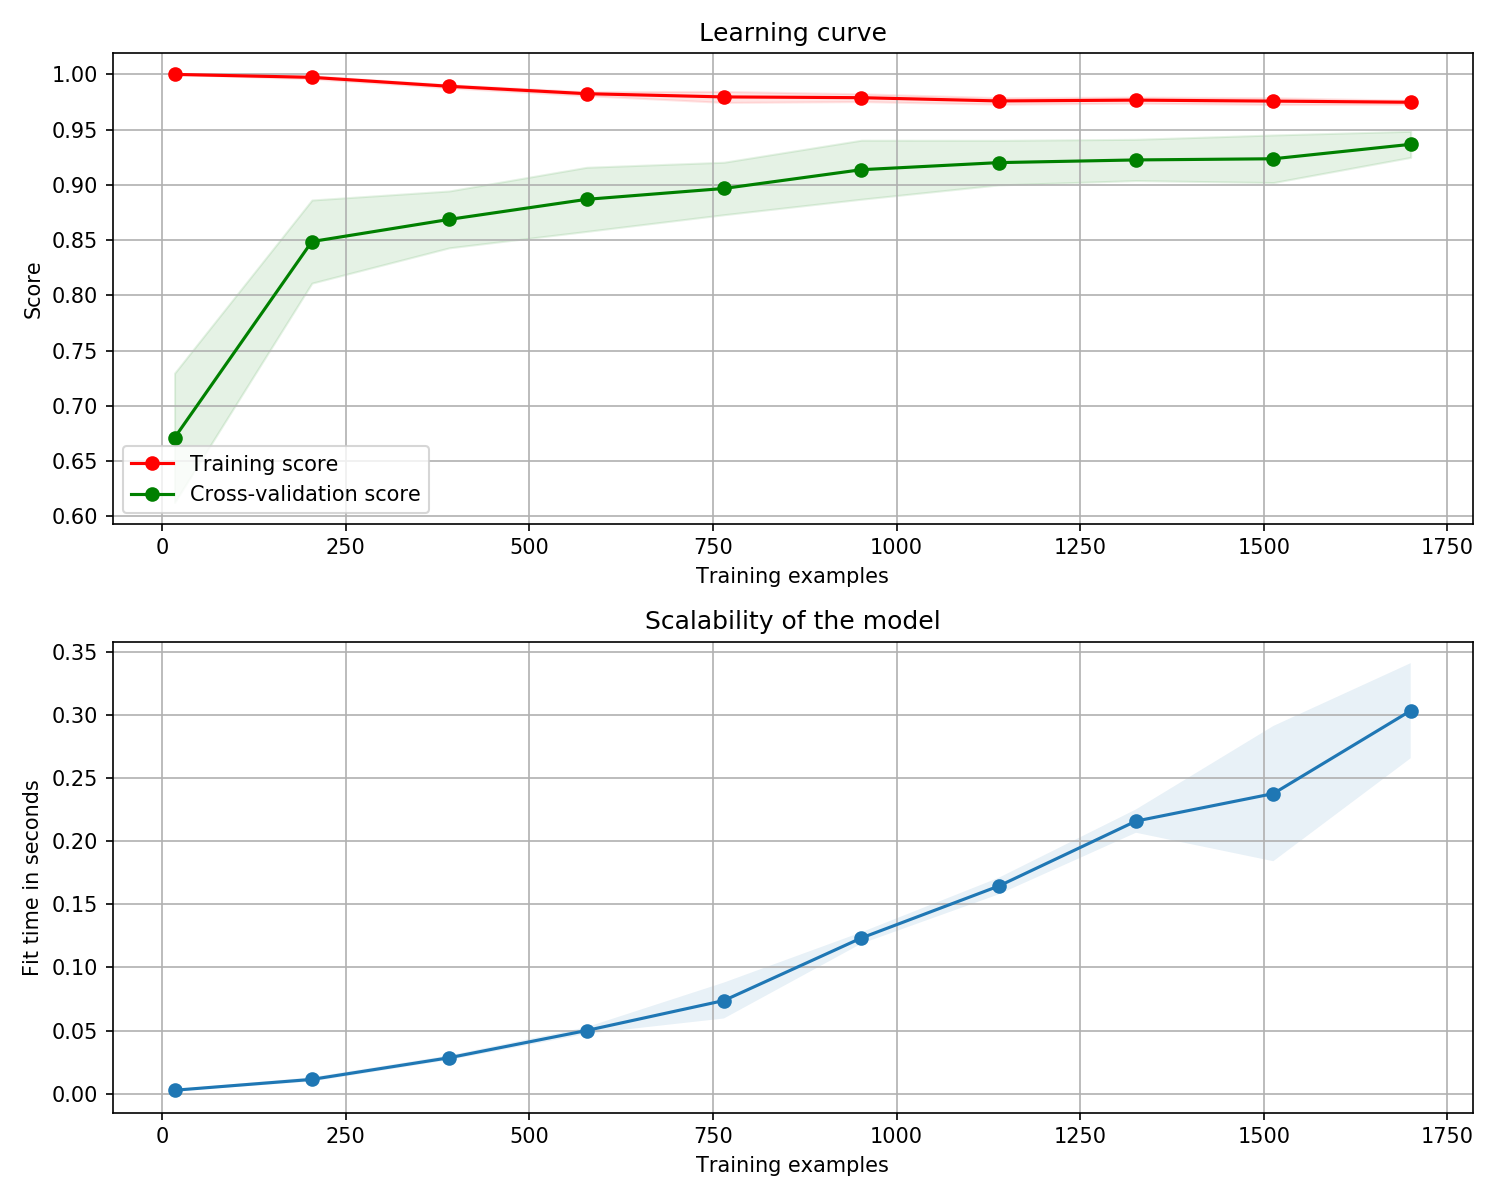
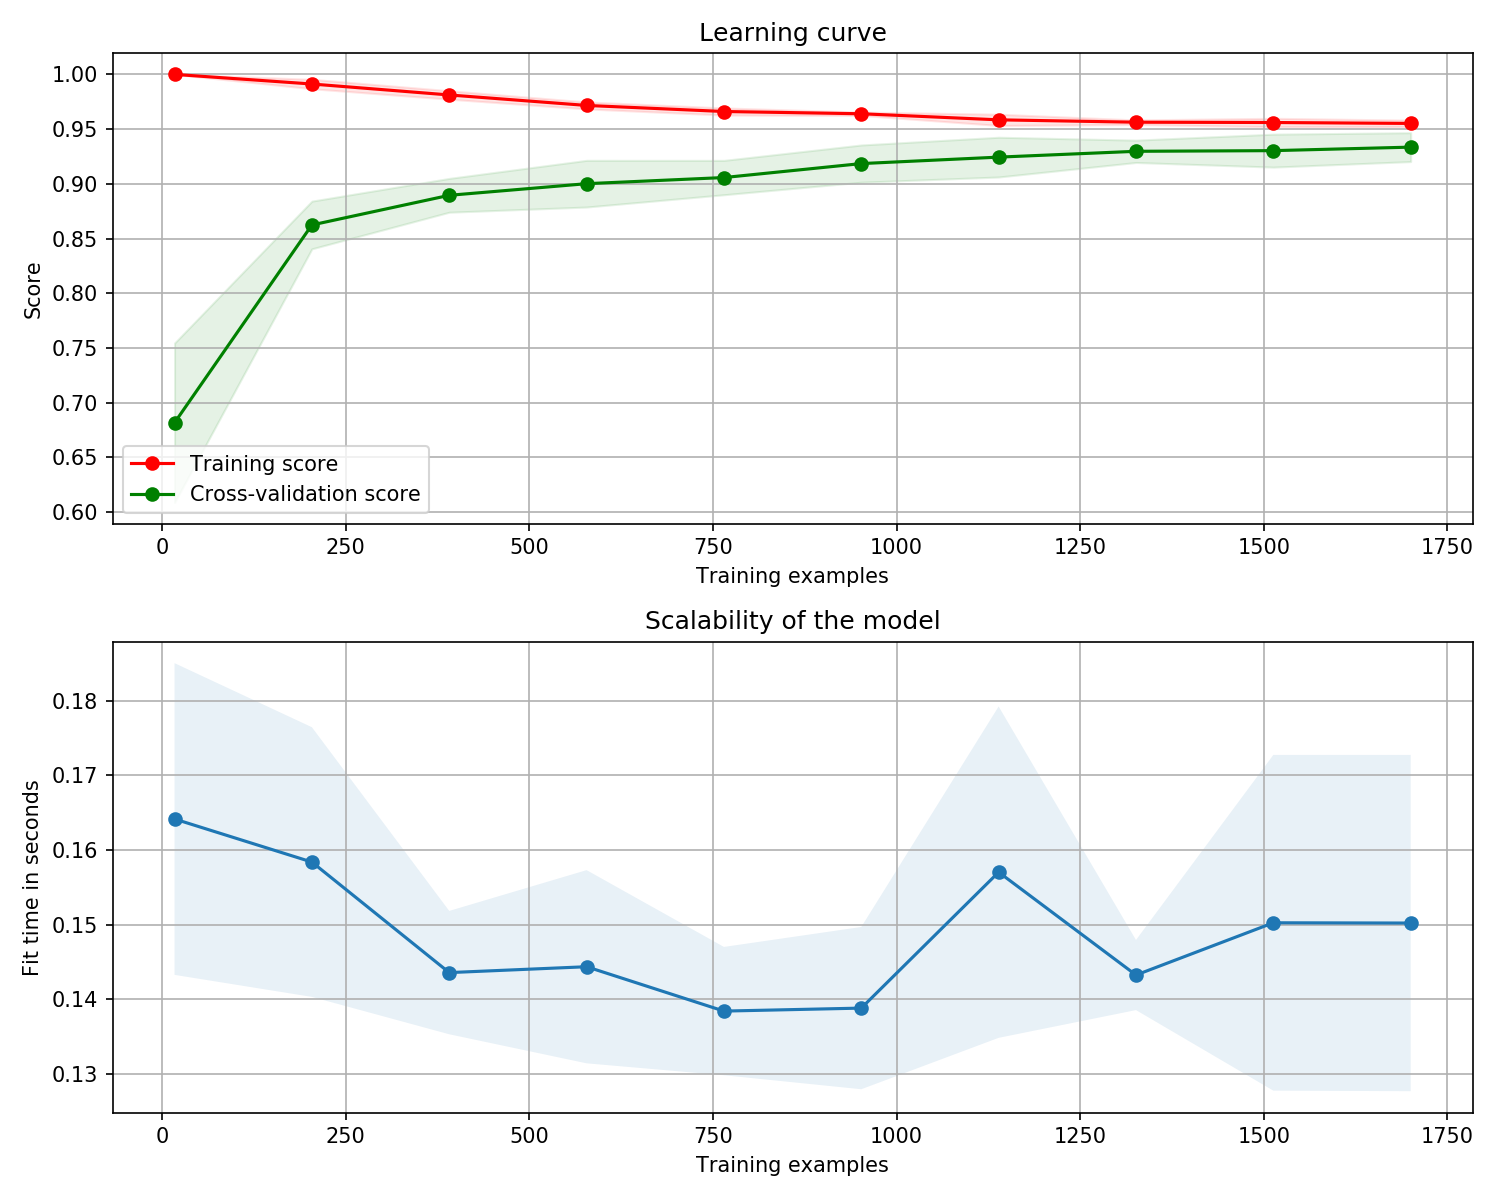
graphs

diff --git a/cardio_classification.py b/cardio_classification.py
@@ -15,8 +15,10 @@ import imblearn
 import copy
 import seaborn as sns
 import sklearn
+import lightgbm as lgb
 from sklearn.inspection import permutation_importance
 from sklearn.impute import KNNImputer
+from sklearn.calibration import calibration_curve
 
 #############################################################################################################
 # Data
@@ -221,9 +223,10 @@ def print_cv(cv, X, y, model_name):
 
     return
 
+
 def plot_permutation_importance(estimator, X, y, save_as=None):
     """ Boxplot of feature permutation importance for a given estimator. """
-    result = permutation_importance(estimator, X, y, scoring='balanced_accuracy', n_repeats=50, n_jobs=10,
+    result = permutation_importance(estimator, X, y, scoring='balanced_accuracy', n_repeats=50, n_jobs=cores,
         random_state=seed)
     perm_sorted_idx = result.importances_mean.argsort()
 
@@ -343,11 +346,19 @@ random_forest = sklearn.ensemble.RandomForestClassifier(n_estimators=100, criter
     min_samples_split=2, min_samples_leaf=1, min_weight_fraction_leaf=0.0, max_features=10,
     bootstrap=True, oob_score=False, n_jobs=cores, random_state=seed, class_weight='balanced')
 
-random_forest_grid = {"n_estimators": [50],
-    "max_depth": [5],
-    "max_features": [.5]}
+tree_numbers = [20, 50, 100]
+tree_depths = [2, 3, 5, 7]
+max_feature_vals = [.2,.5,.7]
 
-random_forest_cv = sklearn.model_selection.GridSearchCV(random_forest, random_forest_grid,
+forest_pipe = sklearn.pipeline.Pipeline(
+    [('poly', poly), ('forest', random_forest)])
+
+random_forest_grid = {"poly__degree": [1,2],
+    "forest__n_estimators": tree_numbers,
+    "forest__max_depth": tree_depths,
+    "forest__max_features": max_feature_vals}
+
+random_forest_cv = sklearn.model_selection.GridSearchCV(forest_pipe, random_forest_grid,
     scoring='balanced_accuracy', n_jobs=cores, refit=True, verbose=True, return_train_score=True, cv=5)
 random_forest_cv.fit(X,y)
 
@@ -358,52 +369,36 @@ plot_learning(random_forest_cv.best_estimator_, X, y, save_as='svm_learning')
 plot_permutation_importance(random_forest_cv.best_estimator_, X, y, save_as='svm_importance')
 
 #############################################################################################################
-# AdaBoost
+# LightGB
 
-tree = sklearn.tree.DecisionTreeClassifier(max_depth=2, class_weight='balanced', random_state=seed)
-
-boost = sklearn.ensemble.AdaBoostClassifier(base_estimator=tree, n_estimators=1000, learning_rate=1.0,
-    random_state=seed, algorithm='SAMME.R')
-
-# Put all processing and feature engineering in a pipeline
-boost_pipe = imblearn.pipeline.Pipeline(
-    [('outlier', zscore_outlier_removal), ('impute', KNN_impute), ('poly', poly), ('boost', boost)])
-
-len(df[df.Status == -1]) / len(df)
+gbm = lgb.LGBMClassifier(max_depth=5, class_weight='balanced',
+                        learning_rate=1, n_estimators=500, random_state=seed, num_leaves=100)
 
 # values to try for cross-validation
-learning_rates = [0.1, 0.2, 0.5, 0.7, 0.8, 0.9, 1]
-n_iterations_vals = [200, 500, 1000, 1500, 2000]
-tree_depths = [1, 2, 3, 4, 5]
-poly_degrees = [1, 2, 3]
-zscore_threshold_vals = [100, 7, 5]
+learning_rates = [0.011]
+n_iterations_vals = [500]
+tree_depths = [9]
 
-# full parameter grid (takes too long, run one at a time instead)
-boost_grid = {"outlier__kw_args": [dict(threshold=i) for i in zscore_threshold_vals],
-    "poly__degree": poly_degrees, "boost__base_estimator__max_depth": tree_depths,
-    "boost__learning_rate": learning_rates, "boost__n_estimators": n_iterations_vals}
-
-# optimal values found through one at a time CV
-boost_grid = {"outlier__kw_args": [dict(threshold=i) for i in [100]], "poly__degree": [2],
-    "boost__base_estimator__max_depth": [2], "boost__learning_rate": [0.7], "boost__n_estimators": [1500]}
+gbm_grid = {"max_depth": tree_depths,
+            "learning_rate": learning_rates,
+            "n_estimators": n_iterations_vals}
 
 # stratified 5-fold cross-validation
-cv_boost = sklearn.model_selection.GridSearchCV(boost_pipe, boost_grid, scoring='balanced_accuracy',
+cv_boost = sklearn.model_selection.GridSearchCV(gbm, gbm_grid, scoring='balanced_accuracy',
     n_jobs=cores, refit=True, verbose=True, return_train_score=False, cv=5)
-cv_boost.fit(X, y)
+cv_boost.fit(X,y)
 
-# Results
 print_cv(cv_boost, X, y, 'AdaBoost')
 
-# plot_learning(cv_boost.best_estimator_, X, y, save_as='boost_learning')
+plot_learning(cv_boost.best_estimator_, X, y, save_as='AdaBoost')
 
-# plot_permutation_importance(cv_boost.best_estimator_, X, y, save_as='boost_importance')
+plot_permutation_importance(cv_boost.best_estimator_, X, y, save_as='AdaBoost')
 
 #############################################################################################################
 # Logistic regression
 
 log_reg = sklearn.linear_model.LogisticRegression(fit_intercept=True, dual=False, C=0.3, l1_ratio=0.9,
-    penalty='elasticnet', solver='saga', tol=0.001, max_iter=5000, class_weight='balanced', n_jobs=1)
+    penalty='elasticnet', solver='saga', tol=0.001, max_iter=5000, class_weight='balanced')
 
 # optimal pipeline without outlier treatment
 log = imblearn.pipeline.Pipeline([('poly', poly), ('scale', scale), ('log_reg', log_reg)])
@@ -429,14 +424,26 @@ stack_estimators = [('forest', random_forest_cv.best_estimator_), ('svm', svm_cv
 stack = sklearn.ensemble.StackingClassifier(stack_estimators, cv=5, stack_method='auto', n_jobs=cores, verbose=1)
 stack.fit(X,y)
 
-cross_val_pred = sklearn.model_selection.cross_val_predict(stack, X, y, cv=5, n_jobs=cores)
+models = [('forest', random_forest_cv.best_estimator_), ('svm', svm_cv.best_estimator_),
+    ('boost', cv_boost.best_estimator_)]
+voting = sklearn.ensemble.VotingClassifier(models, voting='hard')
+
+cross_val_pred = sklearn.model_selection.cross_val_predict(voting, X, y, cv=5, n_jobs=cores)
 print('Out-of-sample confusion matrix of best estimator:\n{}'.format(
     sklearn.metrics.confusion_matrix(y, cross_val_pred)))
 
 sklearn.metrics.balanced_accuracy_score(y,cross_val_pred)
 
-stack.get_params()
-
+cross_val_pred_prob = sklearn.model_selection.cross_val_predict(cv_boost.best_estimator_, X, y, cv=5,
+    n_jobs=cores, method='predict_proba')[:,1]
+fraction_of_positives, mean_predicted_value = calibration_curve(y, cross_val_pred_prob, normalize=False,
+    n_bins=7, strategy='uniform')
+name='Boost'
+clf_score = sklearn.metrics.brier_score_loss(y, cross_val_pred_prob, pos_label=y.max())
+plt.plot(mean_predicted_value, fraction_of_positives, "s-", label="%s (%1.3f)" % (name, clf_score))
+plt.plot([0, 1], [0, 1], "k:", label="Perfectly calibrated")
+plt.legend()
+plt.show()
 #############################################################################################################
 # Comparison
 
@@ -461,8 +468,52 @@ plt.show()
 
 
 
+
 #############################################################################################################
 # Unused
+
+
+#############################################################################################################
+# AdaBoost
+
+tree = sklearn.tree.DecisionTreeClassifier(max_depth=2, class_weight='balanced', random_state=seed)
+
+boost = sklearn.ensemble.AdaBoostClassifier(base_estimator=tree, n_estimators=1000, learning_rate=1.0,
+    random_state=seed, algorithm='SAMME.R')
+
+# Put all processing and feature engineering in a pipeline
+boost_pipe = sklearn.pipeline.Pipeline([('poly', poly), ('boost', boost)])
+
+# values to try for cross-validation
+learning_rates = [0.1, 0.2, 0.5, 0.7, 0.8, 0.9, 1]
+n_iterations_vals = [500, 1000, 1500, 2000]
+tree_depths = [1, 2, 3, 4, 5, 6]
+poly_degrees = [1, 2]
+
+# full parameter grid (takes too long, run one at a time instead)
+boost_grid = {"poly__degree": poly_degrees, "boost__base_estimator__max_depth": tree_depths,
+    "boost__learning_rate": learning_rates, "boost__n_estimators": [1000]}
+
+# optimal values found through one at a time CV
+boost_grid = {"poly__degree": [2], "boost__base_estimator__max_depth": [1],
+    "boost__learning_rate": [0.1], "boost__n_estimators": [1000]}
+
+# optimal values found through one at a time CV
+# boost_grid = {"outlier__kw_args": [dict(threshold=i) for i in [100]], "poly__degree": [2],
+#     "boost__base_estimator__max_depth": [2], "boost__learning_rate": [0.7], "boost__n_estimators": [1500]}
+
+# stratified 5-fold cross-validation
+cv_boost = sklearn.model_selection.GridSearchCV(boost_pipe, boost_grid, scoring='balanced_accuracy',
+    n_jobs=cores, refit=True, verbose=True, return_train_score=False, cv=5)
+cv_boost.fit(X, y)
+
+# Results
+print_cv(cv_boost, X, y, 'AdaBoost')
+
+# plot_learning(cv_boost.best_estimator_, X, y, save_as='boost_learning')
+
+# plot_permutation_importance(cv_boost.best_estimator_, X, y, save_as='boost_importance')
+
 
 # LOF observation outlier removal (not used in the end)
 def lof_outlier_removal(X, y, share_out=10 ** (-2)):
@@ -473,7 +524,7 @@ def lof_outlier_removal(X, y, share_out=10 ** (-2)):
         return X, y
 
     lof = sklearn.neighbors.LocalOutlierFactor(n_neighbors=50, algorithm='auto', leaf_size=30,
-        metric='minkowski', p=2, metric_params=None, contamination=share_out, novelty=False, n_jobs=None)
+        metric='minkowski', p=2, metric_params=None, contamination=share_out, novelty=False)
 
     inlier = lof.fit_predict(X)
 
